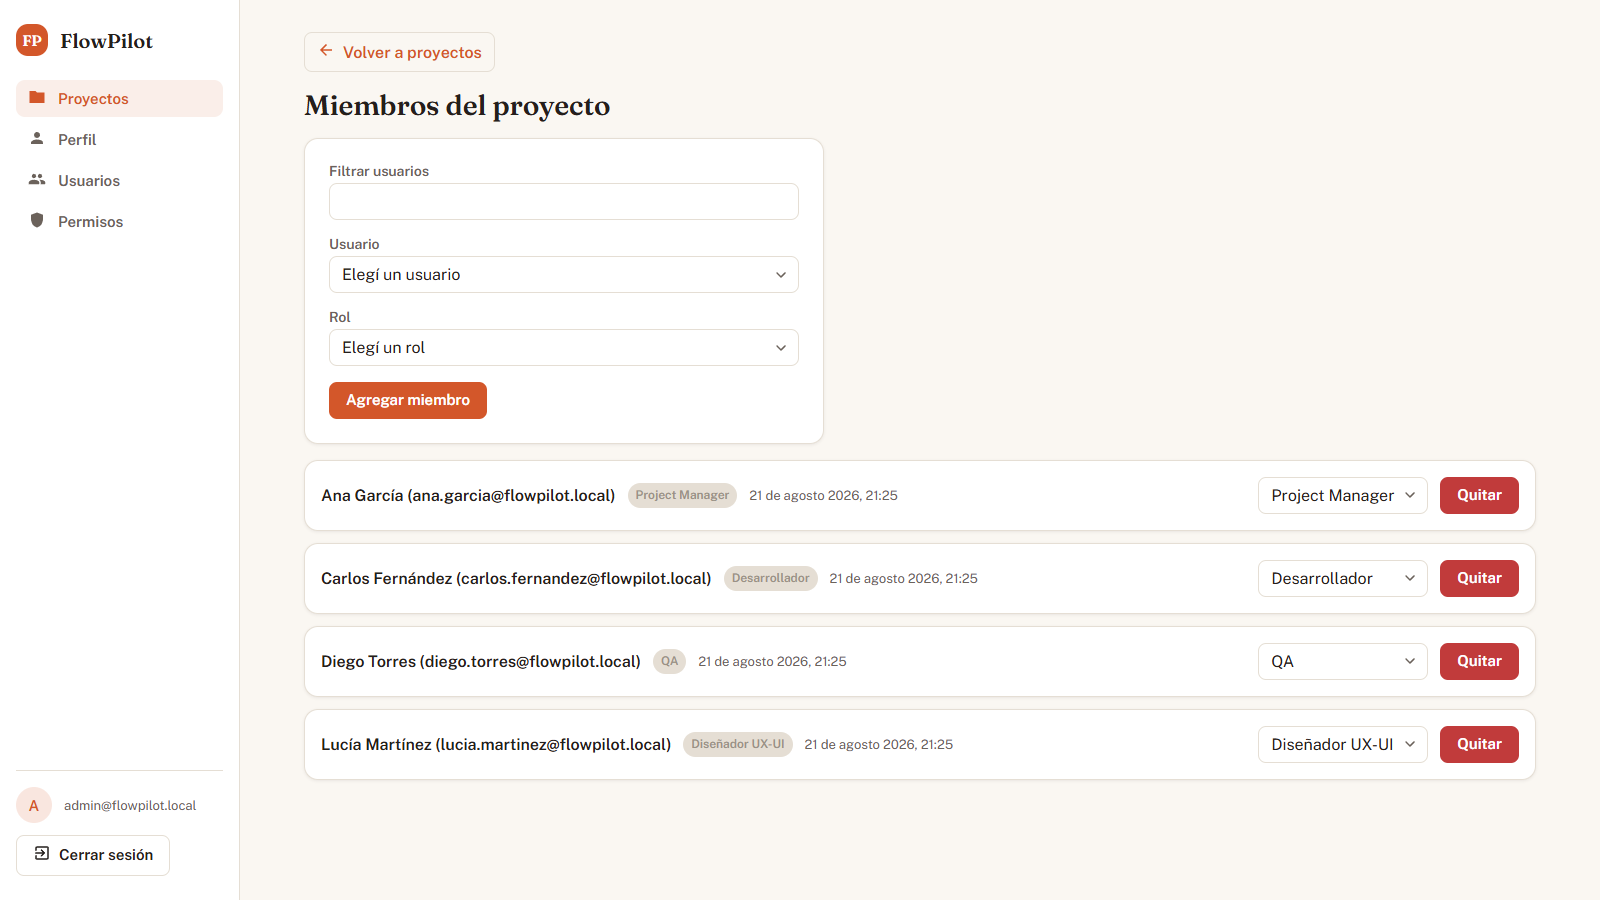
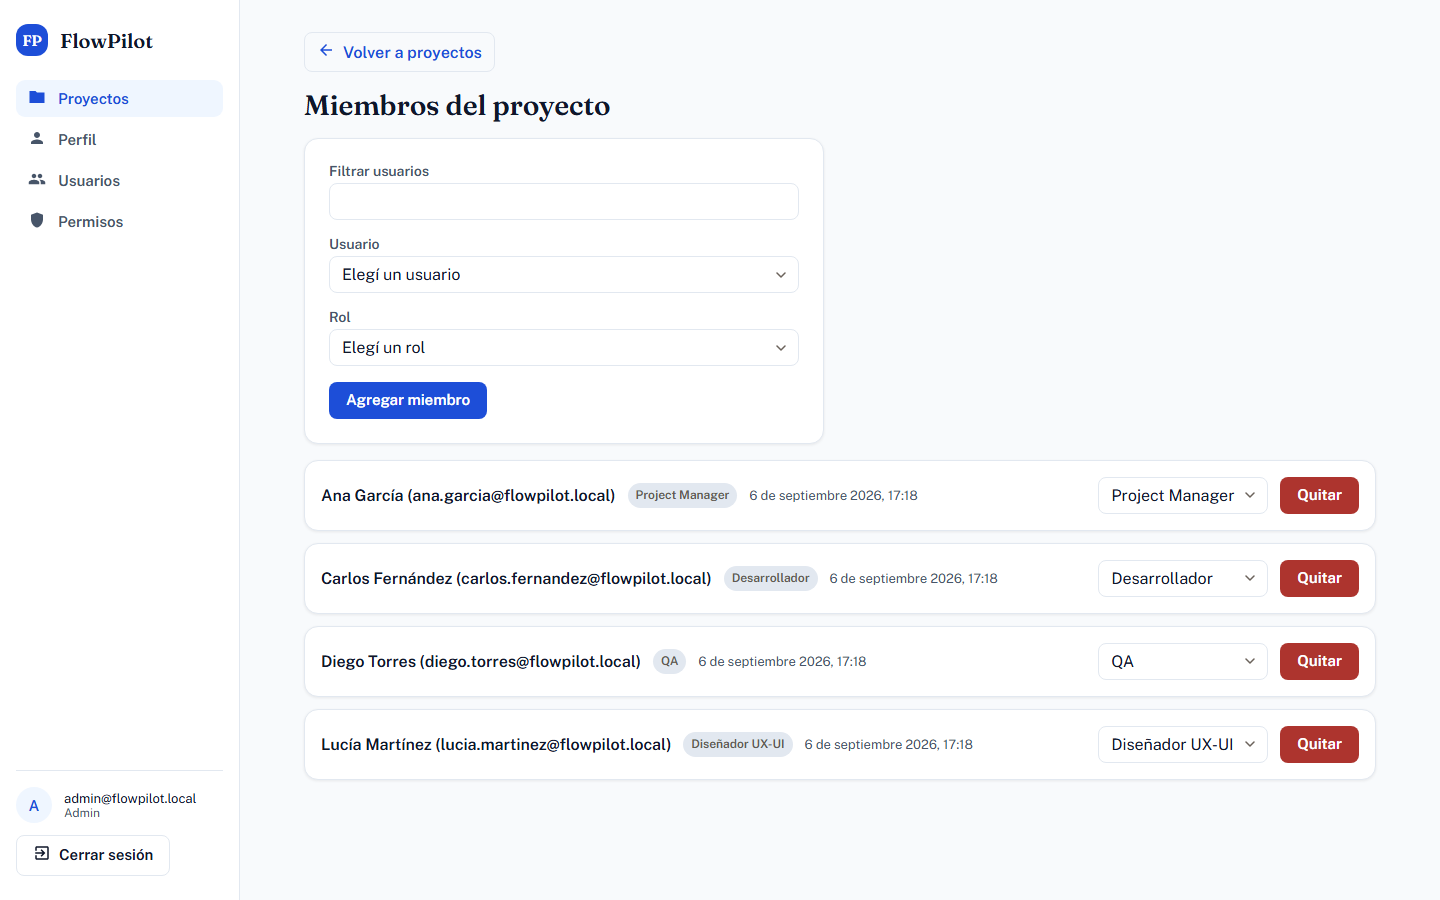
docs: recapture README screenshots against the redesigned UI
All 10 shots retaken at 1440px on the running stack: new login/auth card,
--lp-* palette across the authenticated shell, and the marketing landing
now fills the "Public landing" slot (was the authenticated home).

Claude-Session: https://claude.ai/code/session_01TZRQcgnpQPG2r3ct5vaNEp

diff --git a/README.md b/README.md
@@ -8,8 +8,8 @@ Full product vision: [`FlowPilot_Gestor_Proyectos_IA.md`](FlowPilot_Gestor_Proye
 
 | | |
 |---|---|
-| **Login** | **Home** |
-| ![Login screen](docs/screenshots/login.png) | ![Home screen](docs/screenshots/00-home.png) |
+| **Login** | **Public landing** |
+| ![Login screen](docs/screenshots/login.png) | ![Public marketing landing](docs/screenshots/00-home.png) |
 | **Projects** | **Kanban board** |
 | ![Projects list](docs/screenshots/01-projects.png) | ![Kanban board](docs/screenshots/02-board.png) |
 | **Project members** | **Admin — users** |
